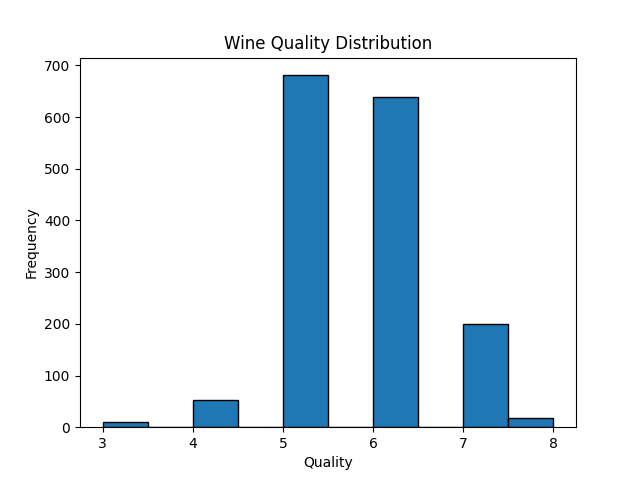
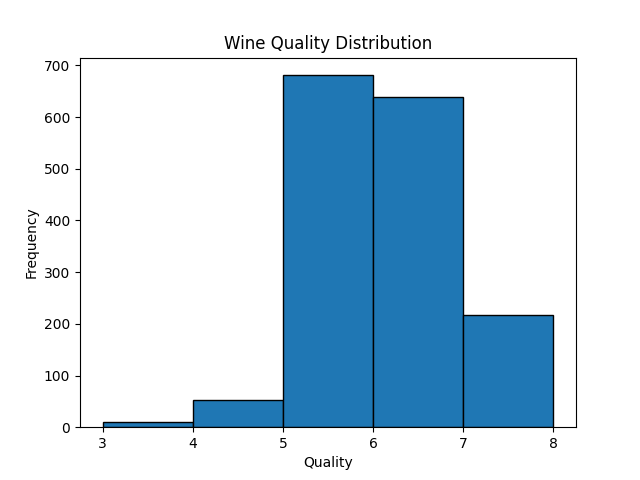
Bug fix

diff --git a/src/data_analysis/describe_and_plot_raw_data.py b/src/data_analysis/describe_and_plot_raw_data.py
@@ -15,7 +15,7 @@ def describe_and_plot_raw_data(df: pd.DataFrame):
         xlabel='Quality',
         ylabel='Frequency',
         file_name='wine_quality_distribution',
-        plot=lambda: plt.hist(df['quality'], bins=10, edgecolor='black')
+        plot=lambda: plt.hist(df['quality'], bins=5, edgecolor='black')
     )
 
 
